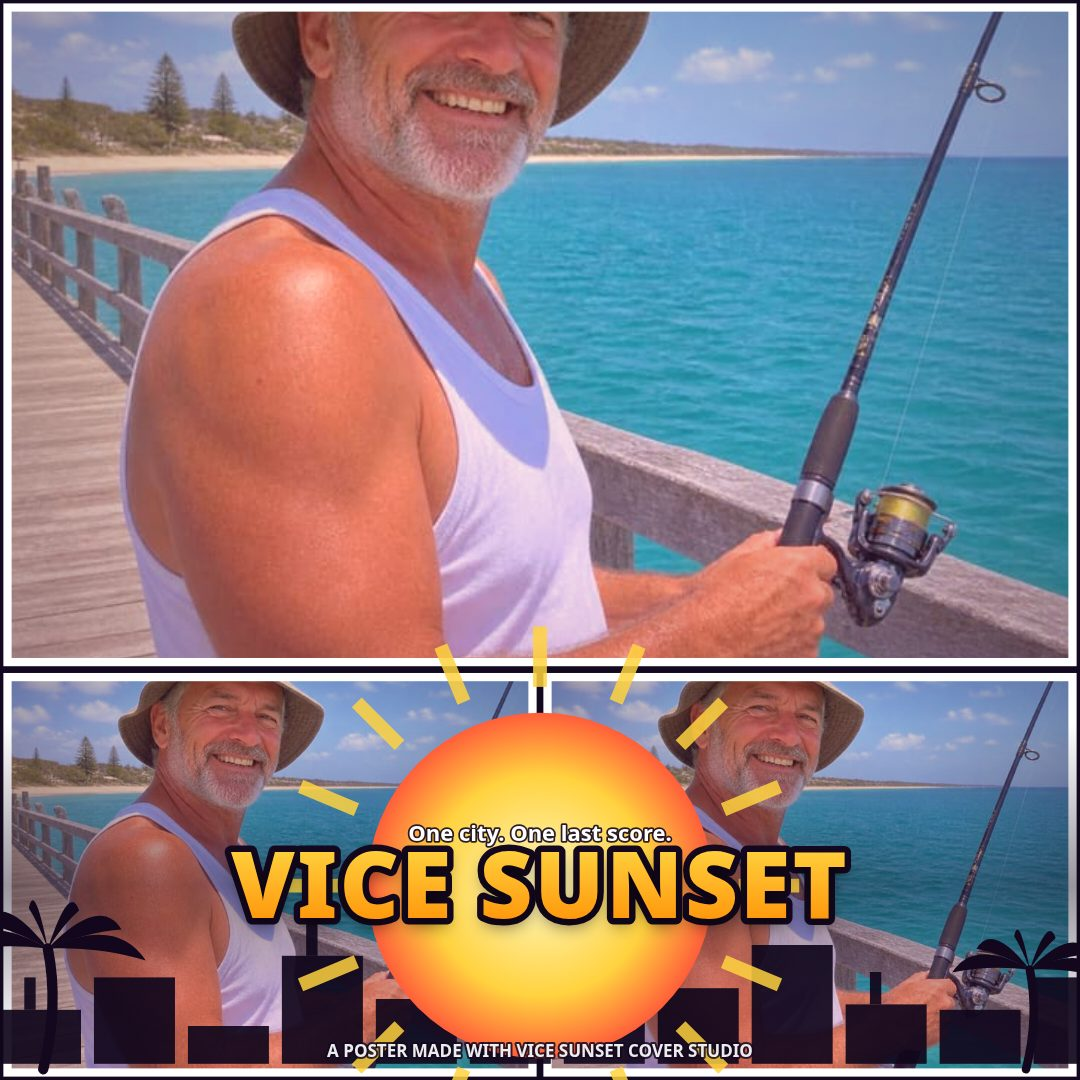
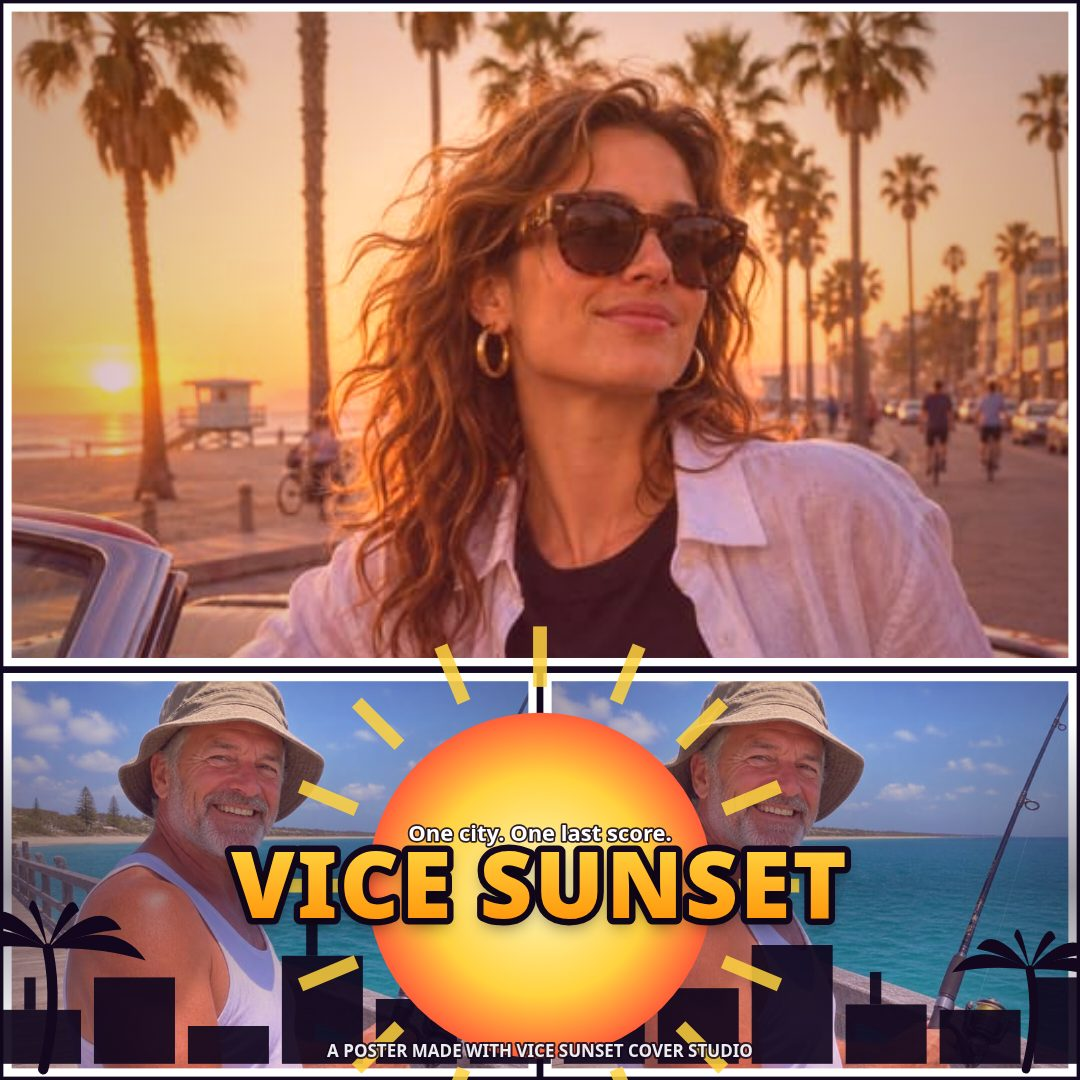
Fix cover shots: Boulevard hero shows full face, Pier smalls; grid alternates photos
1-cover.jpg: trio now loads Boulevard + Pier, hero = Boulevard panned
to show the full face, small panels = Pier panned to keep the hat in
frame. 3-cover-tall.jpg: grid alternates Boulevard/Pier per panel
instead of the same photo four times. Staging gains ?photos=, ?panels=
and ?pans= so a shot can assign each panel its own sample photo and
vertical pan; single-photo shots behave exactly as before.

diff --git a/app/src/main.js b/app/src/main.js
@@ -201,15 +201,24 @@ window.__viceStudio = { state, exportPng, renderPreview, panelCountFor };
 const params = new URLSearchParams(location.search);
 const shot = params.get('shot');
 if (shot) {
-  runShot(shot, params, async ({ photo, caption, layout, grade }) => {
-    const img = await loadImageUrl(`./samples/${photo}.jpg`);
-    addPhoto(state, img, photo === 'boulevard' ? 'Boulevard sample' : 'Pier sample');
+  runShot(shot, params, async ({ photo, photos, panels, pans, caption, layout, grade }) => {
+    const names = photos && photos.length ? photos : [photo];
+    for (const name of names) {
+      const img = await loadImageUrl(`./samples/${name}.jpg`);
+      addPhoto(state, img, name === 'boulevard' ? 'Boulevard sample' : 'Pier sample');
+    }
     state.title = caption;
     const titleEl = $('title'); if (titleEl) titleEl.value = caption;
     setLayout(state, layout);
     state.grade = grade;
-    // In trio, give the hero the sample and reuse it in the small panels too.
-    state.panels.forEach((p) => { p.photoIndex = 0; });
+    // Panels take their photo from ?panels= (index into the loaded photos)
+    // and their vertical pan from ?pans=; both default to the first photo,
+    // unpanned, so a single-photo shot behaves exactly as before.
+    state.panels.forEach((p, i) => {
+      p.photoIndex = panels && panels[i] !== undefined
+        ? Math.max(0, Math.min(panels[i], state.photos.length - 1)) : 0;
+      if (pans && pans[i] !== undefined) p.panY = pans[i];
+    });
     // Cover shots paint at the viewport's own aspect ratio (see shots.js).
     if (shot === 'cover') { canvas.width = window.innerWidth; canvas.height = window.innerHeight; }
     refreshAll();

diff --git a/app/src/shots.js b/app/src/shots.js
@@ -1,13 +1,19 @@
 // Screenshot staging: ?shot=editor | ?shot=cover with ?photo= & ?caption=.
-// Genuine app states only — it loads a real sample photo into the real editor
+// Genuine app states only — it loads real sample photos into the real editor
 // and paints the real cover. Sets window.__shotReady once painted.
+// Multi-photo staging: ?photos=boulevard,pier loads both samples in order,
+// ?panels=0,1,1 picks each panel's photo by index, ?pans=350,-50,-50 sets
+// each panel's vertical pan in canvas pixels (positive shows the photo's top).
 export async function runShot(shot, query, apply) {
   const photo = query.get('photo') || 'pier';
   const caption = query.get('caption') || 'Sunset Heist';
   const layout = query.get('layout') || 'trio';
   const grade = query.get('grade') || 'sunset';
+  const photos = (query.get('photos') || photo).split(',').map((s) => s.trim()).filter(Boolean);
+  const panels = (query.get('panels') || '').split(',').map((s) => Number(s)).filter((n) => Number.isFinite(n));
+  const pans = (query.get('pans') || '').split(',').map((s) => Number(s)).filter((n) => Number.isFinite(n));
   if (shot === 'cover') document.body.classList.add('shot-cover');
-  await apply({ photo, caption, layout, grade });
+  await apply({ photo, photos, panels, pans, caption, layout, grade });
   // In cover mode the canvas bitmap must match the viewport, or the
   // screenshot would stretch the cover to the wrong aspect ratio.
   if (shot === 'cover') {
